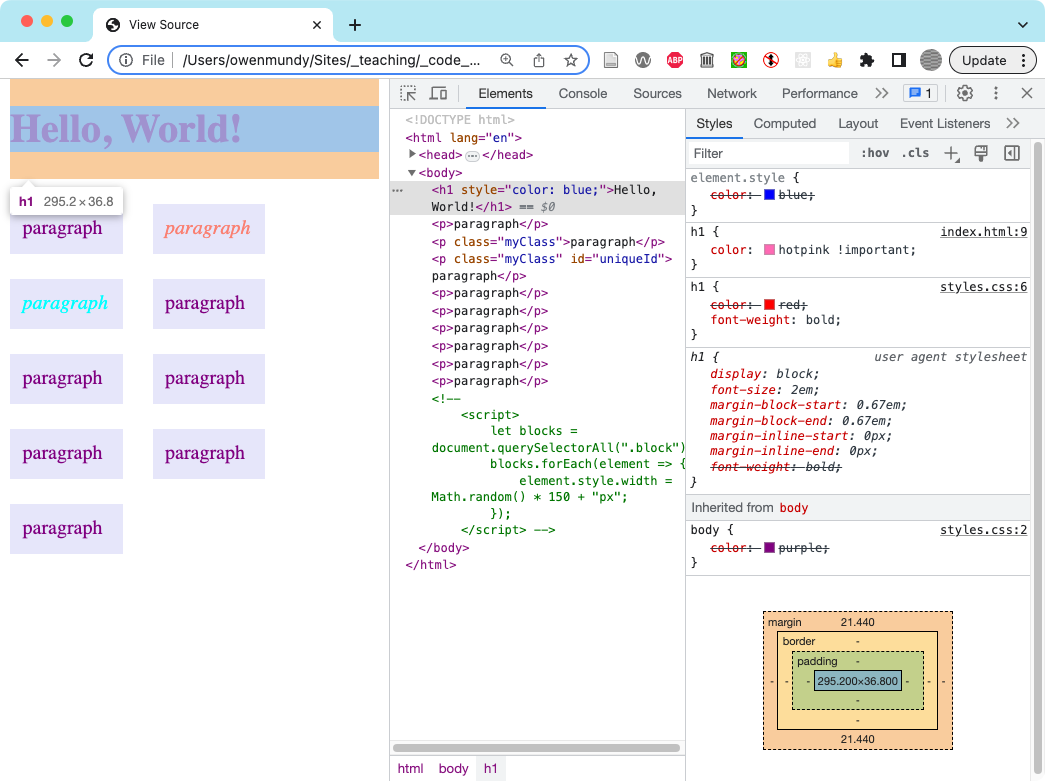
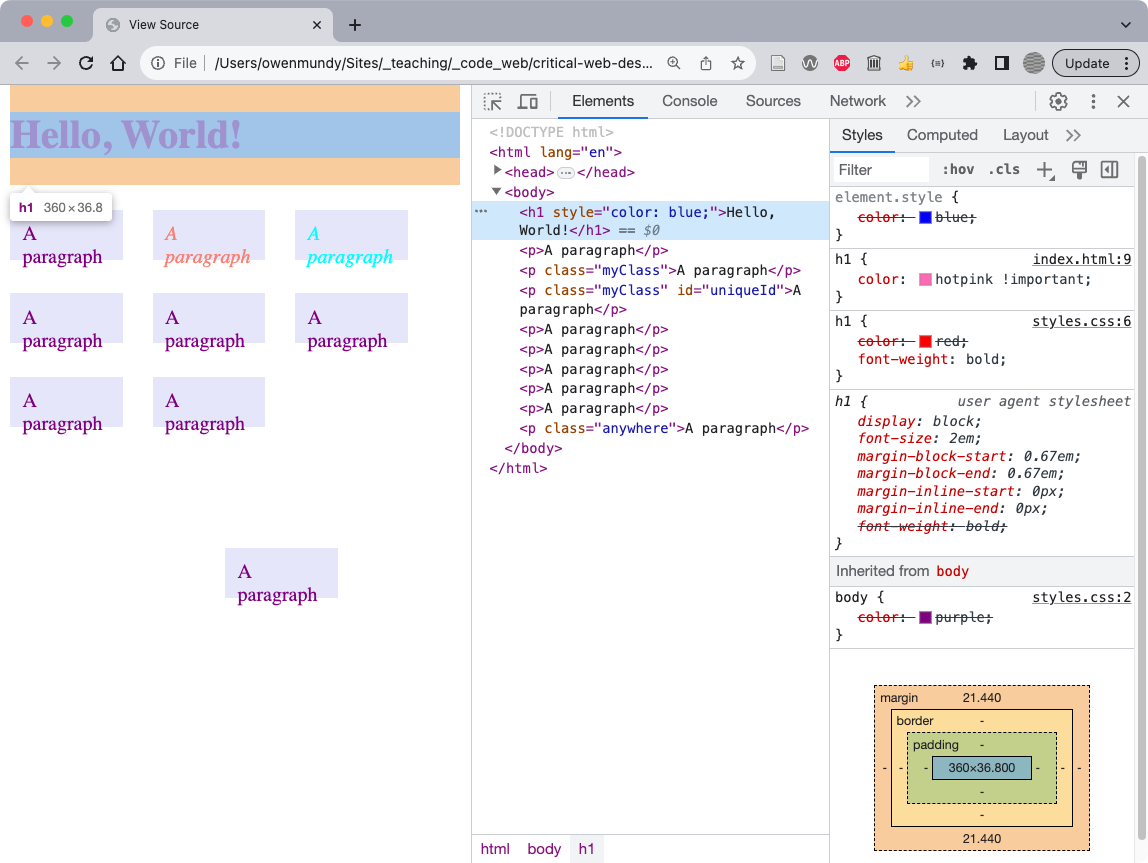
Update css examples

diff --git a/02-view-source/examples/exercise-2.2-finished/index.html b/02-view-source/examples/exercise-2.2-finished/index.html
@@ -19,11 +19,6 @@
             color: aqua;
         }
 
-        /* .block {
-            display: inline-block;
-            background-color: hotpink;
-            margin: 1px 2px 3px 4px;
-        } */
         p {
             display: inline-block;
             width: 70px;
@@ -31,6 +26,12 @@
             margin: 20px 20px 0 0;
             padding: 10px;
             background-color: lavender;
+        }
+
+        .anywhere {
+            position: absolute;
+            top: 350px;
+            left: 180px;
         }
     </style>
 </head>
@@ -46,15 +47,9 @@
     <p>A paragraph</p>
     <p>A paragraph</p>
     <p>A paragraph</p>
-    <p>A paragraph</p>
+    <p class="anywhere">A paragraph</p>
 
-    <!-- 
-    <script>
-        let blocks = document.querySelectorAll(".block")
-        blocks.forEach(element => {
-            element.style.width = Math.random() * 150 + "px";
-        });
-    </script> -->
+
 
 </body>
 </html>

diff --git a/02-view-source/examples/css-examples.html b/02-view-source/examples/css-examples.html
@@ -6,7 +6,7 @@
 
     <style>
         .container {
-            margin: 20px;
+            margin: 60px 20px;
             width: 300px;
             background-color: beige;
             font: 16px/22px Arial, sans-serif;
@@ -34,19 +34,19 @@
             background-color: #E5B459;
         }
 
-        .block * {
+        .block>div {
             display: block;
             padding: 10px;
             margin: 0 10px 10px 0;
         }
 
-        .inline * {
+        .inline>div {
             display: inline;
             padding: 10px;
             margin: 0 10px 10px 0;
         }
 
-        .inline-block * {
+        .inline-block>div {
             display: inline-block;
             padding: 10px;
             margin: 0 10px 10px 0;
